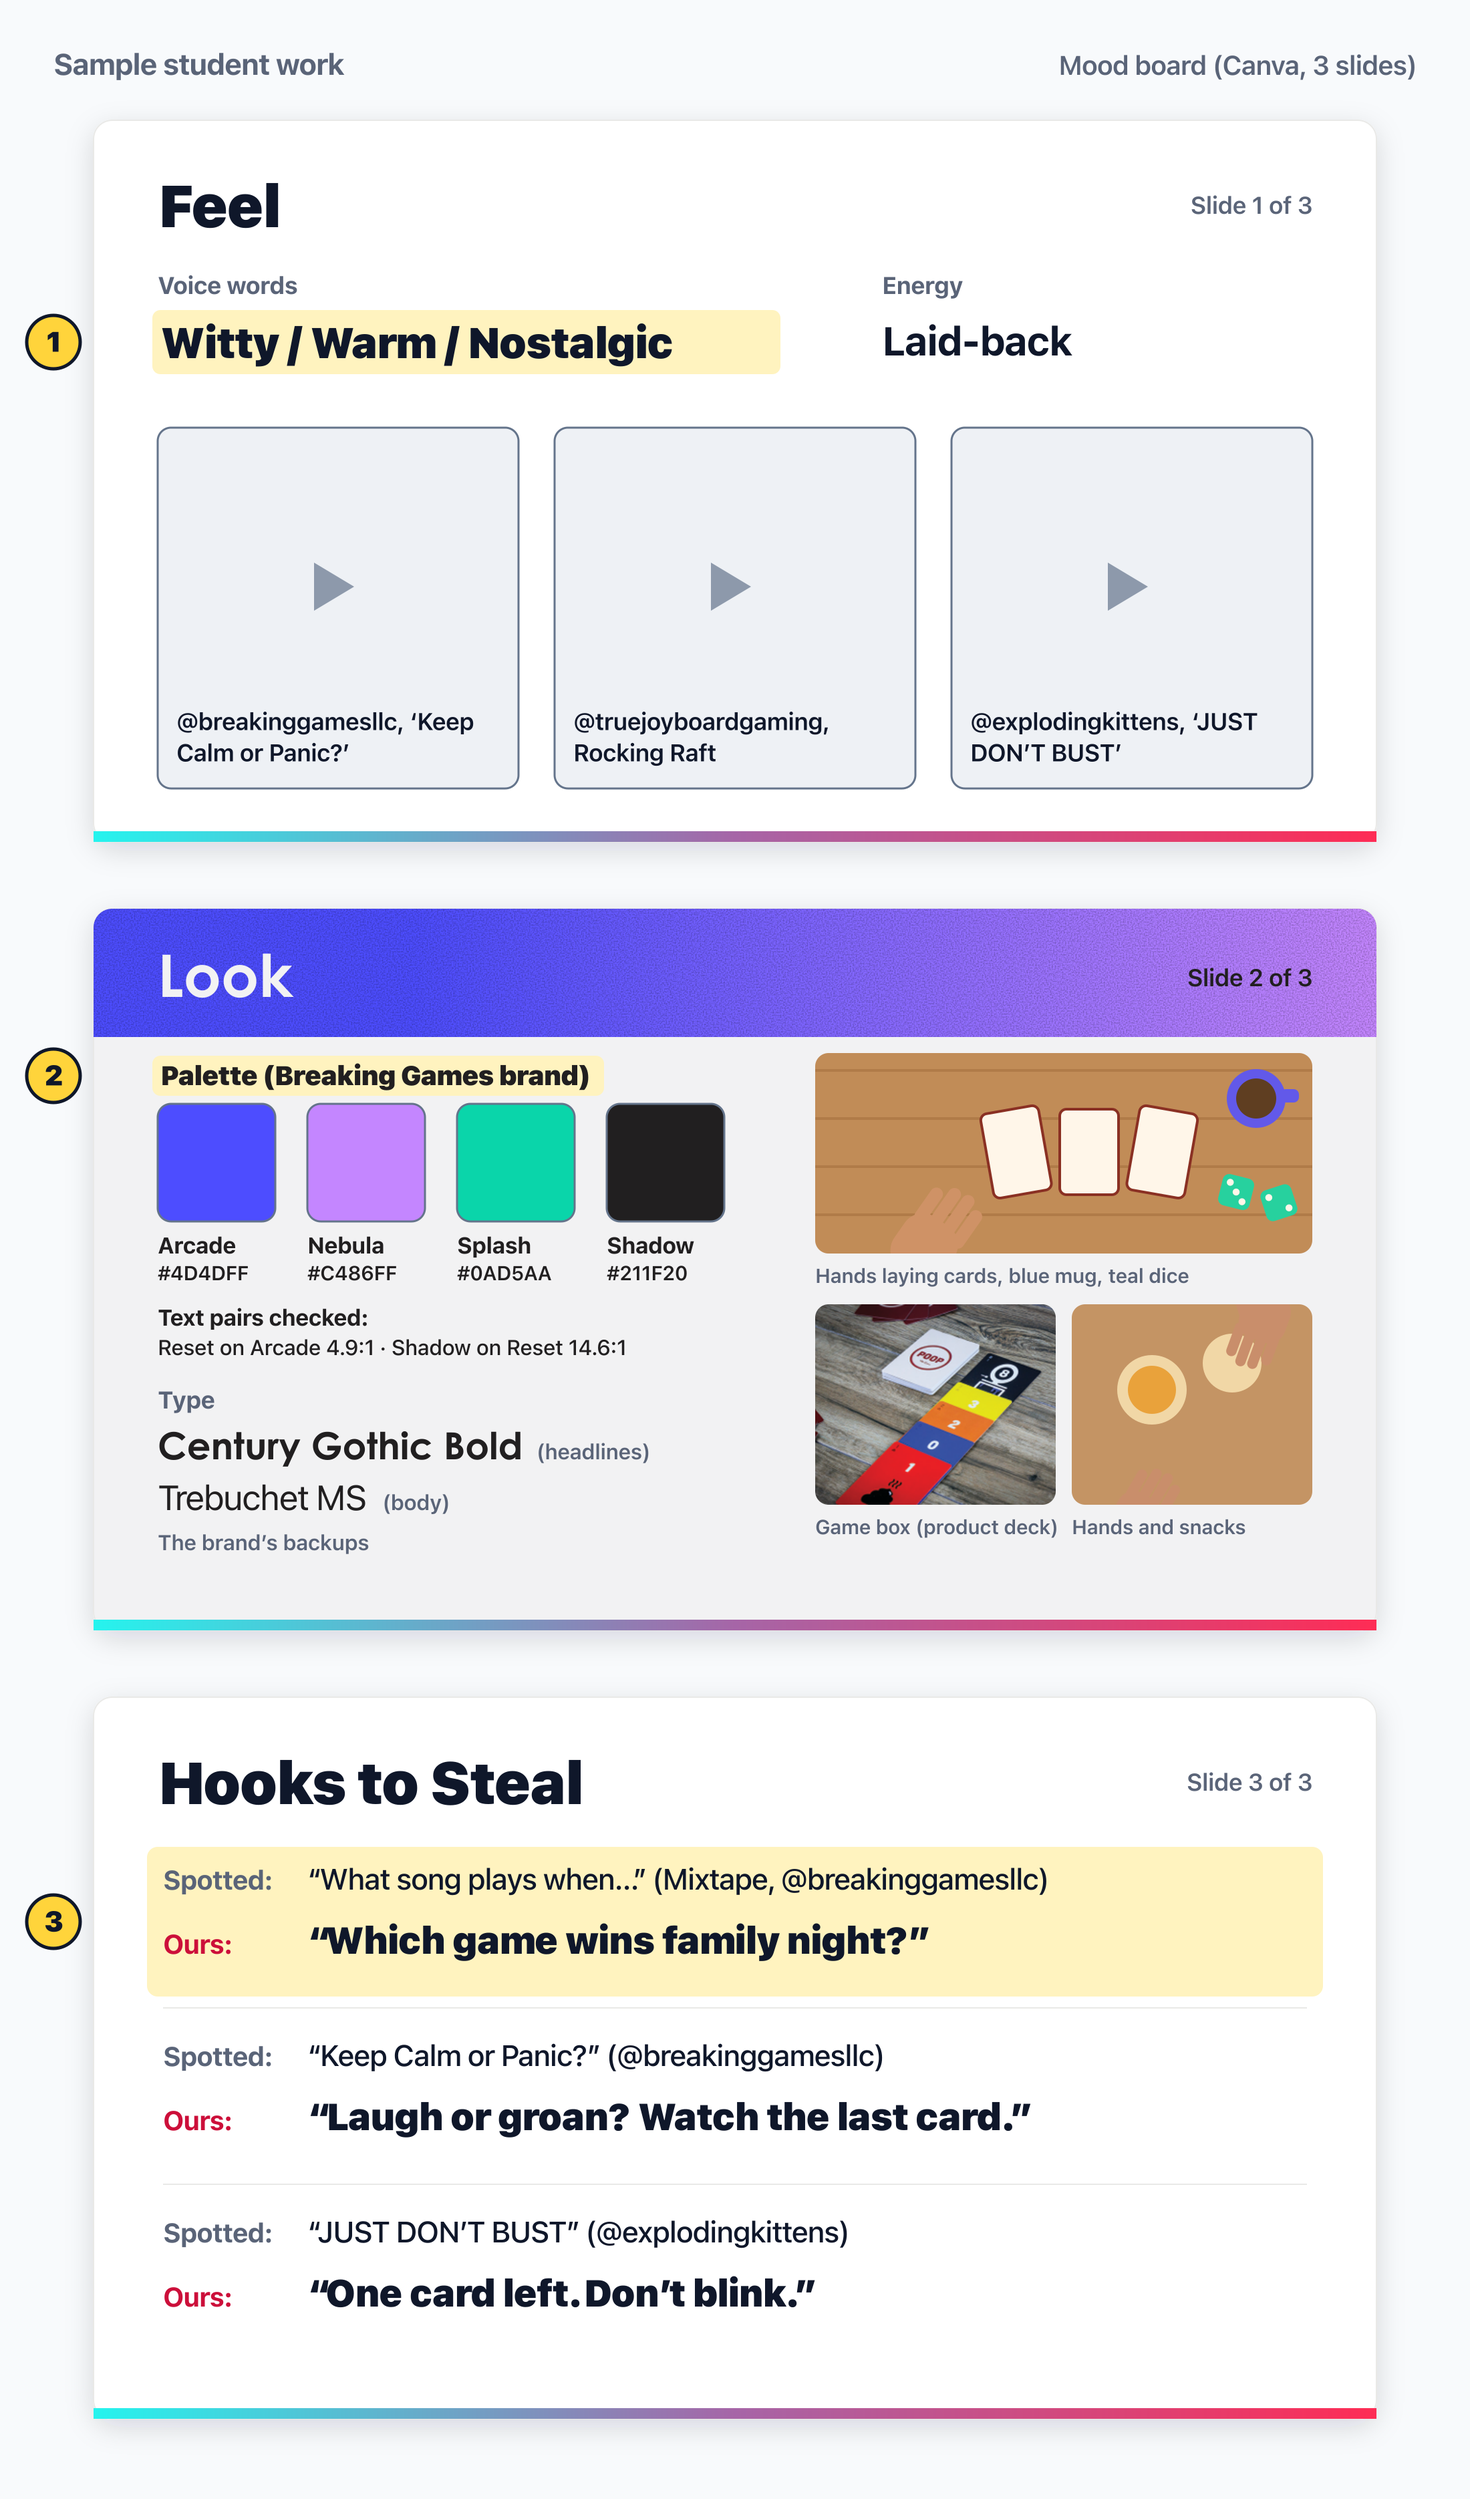
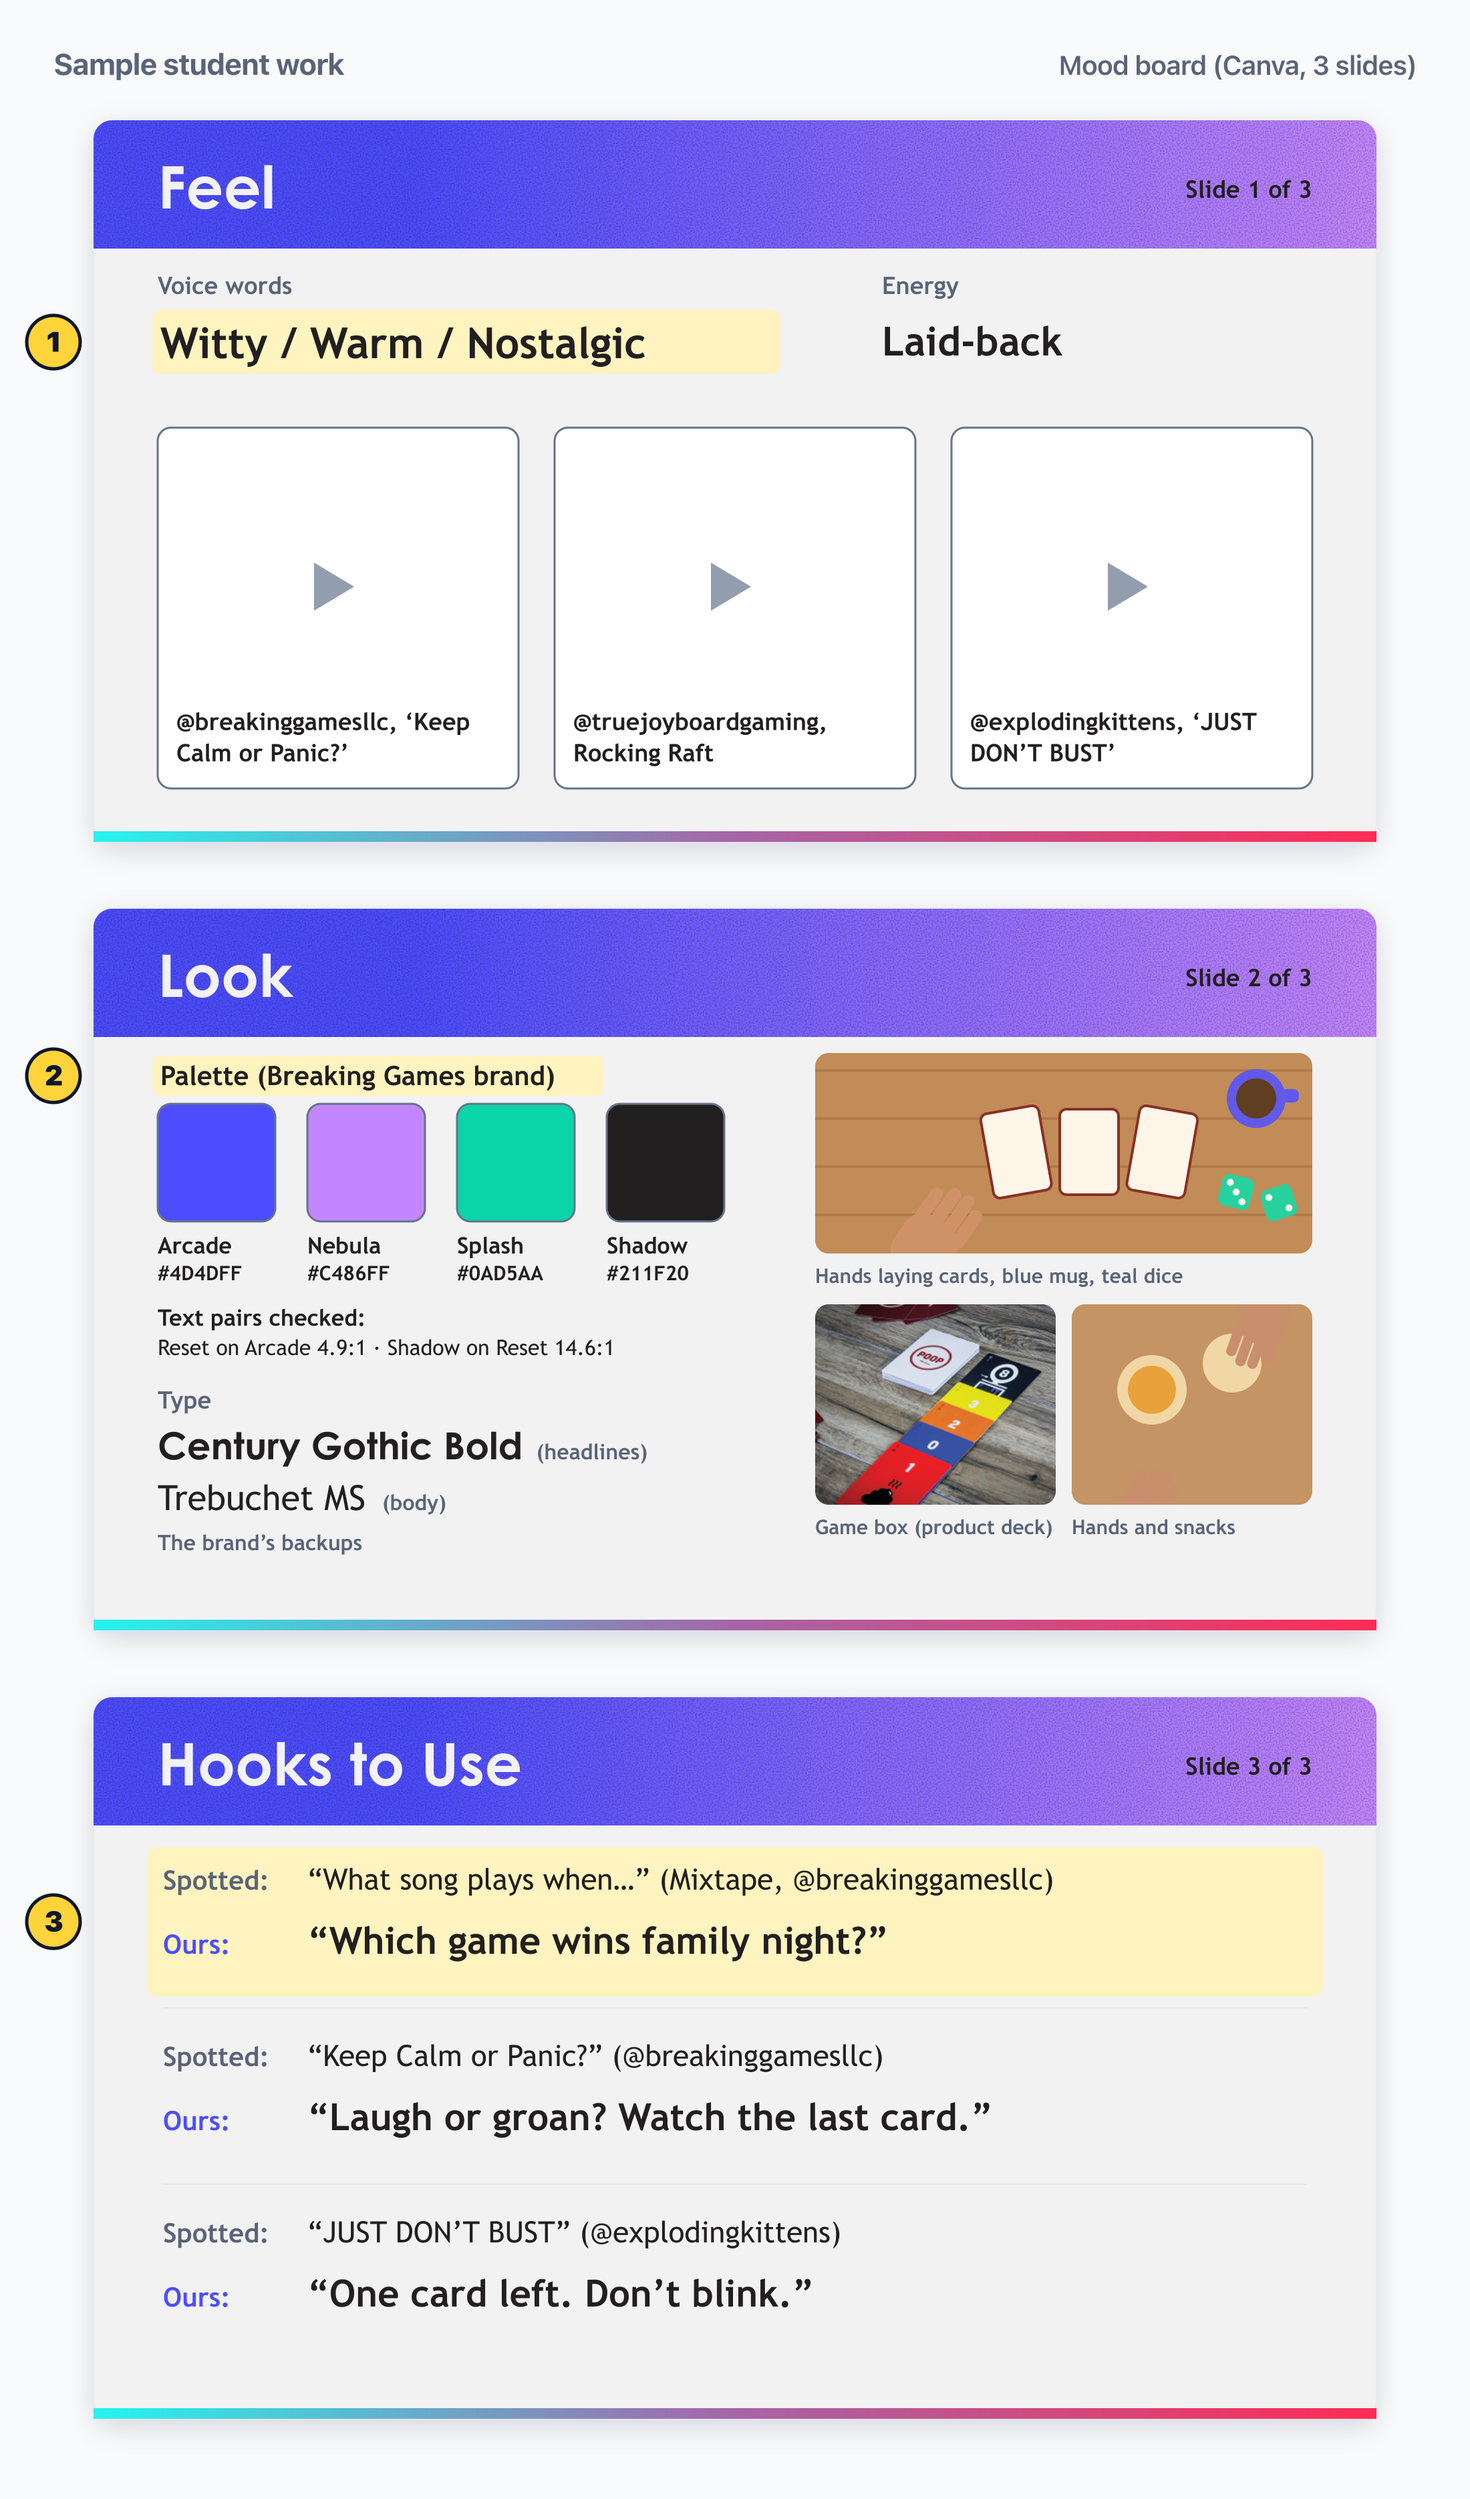
Breaking Games P1: consistent mood board example, Hooks to Steal -> Hooks to Use

diff --git a/breaking-games-p1-build-your-mood-board-and-submit-steps.html b/breaking-games-p1-build-your-mood-board-and-submit-steps.html
@@ -62,7 +62,7 @@ const TASK = {
       title: "Set up your Canva deck",
       instruction: "Go to <a href=\"https://www.canva.com/\" target=\"_blank\" rel=\"noopener\">canva.com<span class=\"sr-only\"> (opens in a new tab)</span></a> and sign in (a free account works). Click <b>Create a design</b>, choose <b>Presentation (16:9)</b>, and name it <code>BG Mood Board - [Your Name]</code>. Add pages until you have 3, and type a label at the top of each.",
       sample: { label: "Sample", kind: "text",
-        body: "Page 1: Feel\nPage 2: Look\nPage 3: Hooks to Steal" },
+        body: "Page 1: Feel\nPage 2: Look\nPage 3: Hooks to Use" },
       onTrack: "you have one Canva design with 3 labeled pages.",
       stuck: [
         "Canva moves its AI menus around. If a button looks different, search “Canva AI” or “Magic Media” in the <b>Apps</b> panel on the left.",
@@ -93,7 +93,7 @@ const TASK = {
       ]
     },
     {
-      title: "Make your Hooks to Steal slide",
+      title: "Make your Hooks to Use slide",
       instruction: "Pick 3 hook lines you spotted in your roast (your Toast lines are a good place to look). Write each one with the account it came from, then rewrite it for Breaking Games: keep the shape, swap the moment, in 7 words or fewer.",
       sample: { label: "Sample", kind: "text",
         body: "Spotted: “What song plays when…” (Mixtape, @breakinggamesllc)\nOurs: “Which game wins family night?”" },

diff --git a/breaking-games-p1-week-1-workshare-slide-steps.html b/breaking-games-p1-week-1-workshare-slide-steps.html
@@ -70,7 +70,7 @@ const TASK = {
       "sample": {
         "label": "Sample student work",
         "kind": "text",
-        "body": "My focus: Ask a question up front. My mood board feels like a loud, warm game night at a real table.\nWhy this matters to Breaking Games: People know the games, not the company. A question makes them stop and answer, right on Breaking Games' own account.\nWhat I've made so far: On the same account, “Keep Calm or Panic?” earned 1,049 views vs. 595 for the promo version. Mood board: Feel, Look, Hooks to Steal.\nMy question for the team: Pair D's hands-moving hit came from a creator's account. Would it work as well on Breaking Games' own account?"
+        "body": "My focus: Ask a question up front. My mood board feels like a loud, warm game night at a real table.\nWhy this matters to Breaking Games: People know the games, not the company. A question makes them stop and answer, right on Breaking Games' own account.\nWhat I've made so far: On the same account, “Keep Calm or Panic?” earned 1,049 views vs. 595 for the promo version. Mood board: Feel, Look, Hooks to Use.\nMy question for the team: Pair D's hands-moving hit came from a creator's account. Would it work as well on Breaking Games' own account?"
       },
       "onTrack": "each answer fits on one line and points to something you made, scored or wrote this week.",
       "stuck": [

diff --git a/breaking-games-p1-quick-start.html b/breaking-games-p1-quick-start.html
@@ -226,7 +226,7 @@
       <h2 id="h-3" tabindex="-1">This week: two things</h2>
       <div class="grid two">
         <div class="box"><span class="emoji" aria-hidden="true">🎲</span><h3>Roast, Toast, Fix (about 2 hours)</h3><p>Compare 4 pairs of real posts, a hit and a flop, and name 3 patterns that would win new players.</p></div>
-        <div class="box"><span class="emoji" aria-hidden="true">🎨</span><h3>Mood Board (about 2 hours)</h3><p>3 slides in Canva, Feel, Look and Hooks to Steal. Then sum up your week on one workshare slide.</p></div>
+        <div class="box"><span class="emoji" aria-hidden="true">🎨</span><h3>Mood Board (about 2 hours)</h3><p>3 slides in Canva, Feel, Look and Hooks to Use. Then sum up your week on one workshare slide.</p></div>
       </div>
       <p><strong>You submit your roast notes when you finish the roast, and your mood board when you finish it.</strong></p>
     </section>

diff --git a/breaking-games-p1-bonus-make-your-first-clip-steps.html b/breaking-games-p1-bonus-make-your-first-clip-steps.html
@@ -65,7 +65,7 @@ const TASK = {
         body: "Game: POOP: The Game ($10, ages 6+, in stock, checked today)\nMoment: the last card of the round, and everyone's reaction\nHook on screen: “Guess who wins this round?”" },
       onTrack: "someone could understand your moment in one sentence.",
       stuck: [
-        "Pick a hook from your Hooks to Steal slide. You already rewrote 3 of them for Breaking Games."
+        "Pick a hook from your Hooks to Use slide. You already rewrote 3 of them for Breaking Games."
       ]
     },
     {
